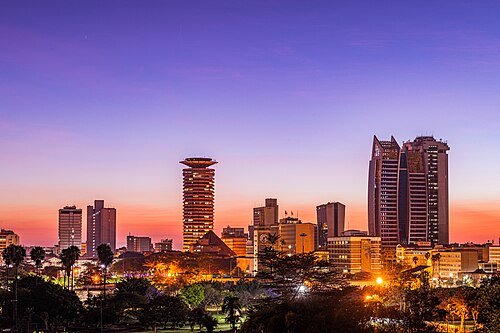
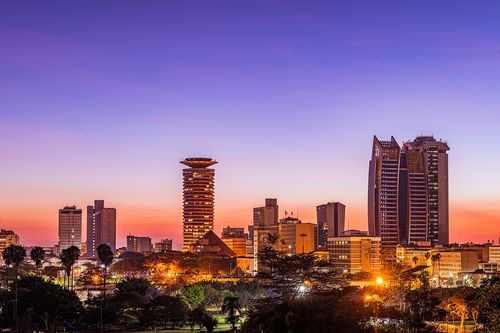
Credit the footer photo on the photo itself; drop stand-in photos
- Footer skyline keeps a single small credit line in its corner
  ("Photo: Antony Trivet · CC BY-SA 4.0"), as its licence requires,
  in place of the footer credits link and the credits page
- Remove the stand-in photographs from the ABC-VEN, weather pipeline and
  hospital review case studies, and the unused stand-in files
- Re-export the skyline from the downloaded original

diff --git a/derrick-portfolio/src/content/site.js b/derrick-portfolio/src/content/site.js
@@ -179,7 +179,6 @@ export const caseStudies = [
     // TODO(Derrick): the thesis abstract, measured findings and the thesis PDF (it would go in public/ and in research.thesisFile).
     lessons: null,
     links: { code: 'https://github.com/LubangaD/mythesis', demo: 'https://avenuehealthcaretool.streamlit.app/' },
-    image: { src: '/assets/img/photo-f177726226-960.jpg', alt: 'Shelves of labelled medicine jars in an old pharmacy', standIn: true },
     related: 'hospital-review-intelligence',
   },
   {
@@ -230,7 +229,6 @@ export const caseStudies = [
     tools: ['Apache Kafka', 'Spark Streaming', 'PostgreSQL', 'Docker', 'Power BI'],
     scopeNote: 'No uptime or production-impact figures are claimed.',
     lessons: null, links: { code: 'https://github.com/LubangaD/lorowandatapipiline' },
-    image: { src: '/assets/img/photo-f85085759-960.jpg', alt: 'A rain gauge on a weather station mast', standIn: true },
     related: 'kenya-livestock-masterplan',
   },
   {
@@ -245,7 +243,6 @@ export const caseStudies = [
     tools: ['NLP', 'spaCy', 'NLTK', 'BERT'],
     scopeNote: 'No performance metrics or clinical outcomes are claimed.',
     lessons: null, links: {},
-    image: { src: '/assets/img/photo-f104570836-960.jpg', alt: 'Hospital beds along the wall of an empty ward', standIn: true },
     related: 'abc-ven-hospital-inventory-research',
   },
   {

diff --git a/derrick-portfolio/src/components/site/SiteFooter.jsx b/derrick-portfolio/src/components/site/SiteFooter.jsx
@@ -30,7 +30,6 @@ const Links = () => (
         <a href={profile.links.github} target="_blank" rel="noopener noreferrer" aria-label="GitHub (opens in a new tab)"><img src="/assets/icons/github.svg" alt="" width="20" height="20" /></a>
         <a href={profile.links.linkedin} target="_blank" rel="noopener noreferrer" aria-label="LinkedIn (opens in a new tab)"><img src="/assets/icons/linkedin.svg" alt="" width="20" height="20" /></a>
       </div>
-      <a className="credits" href="/credits.html">Photographs via Wikimedia Commons</a>
     </div>
   </div>
 );
@@ -72,6 +71,12 @@ const SiteFooter = ({ close = true }) => {
               data-source="stand-in"
               data-subject="Nairobi"
             />
+            {/* CC BY-SA 4.0 requires the author and the licence where the photo is shown: one small line on it */}
+            <small className="close__credit">
+              Photo: <a href="https://commons.wikimedia.org/wiki/File:Nairobi_City_County_Skyline.jpg" target="_blank" rel="noopener noreferrer">Antony Trivet</a>
+              {' · '}
+              <a href="https://creativecommons.org/licenses/by-sa/4.0/" target="_blank" rel="noopener noreferrer">CC BY-SA 4.0</a>
+            </small>
           </div>
         </div>
         <Links />

diff --git a/derrick-portfolio/src/App.css b/derrick-portfolio/src/App.css
@@ -177,6 +177,13 @@ html main.page-flow > :is(section, .section):last-child { padding-bottom: calc(v
 
 /* ---------------------------------------------------------------- the footer */
 .footer__motto { color: var(--muted); max-width: 32ch; }
+/* the footer photo's credit: one small line in its corner (its licence asks for the author and the licence) */
+.close__media .close__credit {
+  position: absolute; right: var(--s-3); bottom: var(--s-2); z-index: 1;
+  font-size: 11px; line-height: 1.4; color: rgba(255, 255, 255, 0.82); text-shadow: 0 1px 2px rgba(0, 0, 0, 0.7);
+}
+.close__media .close__credit a { color: inherit; text-decoration: underline; text-decoration-color: rgba(255, 255, 255, 0.4); text-underline-offset: 2px; }
+.close__media .close__credit a:hover { color: #fff; }
 /* the GitHub mark is drawn in black: on the dark footer it takes the footer's light ink */
 .footer--dark .socials img[src$="github.svg"] { filter: invert(1); }
 .site-footer { padding-top: var(--section-band); }
